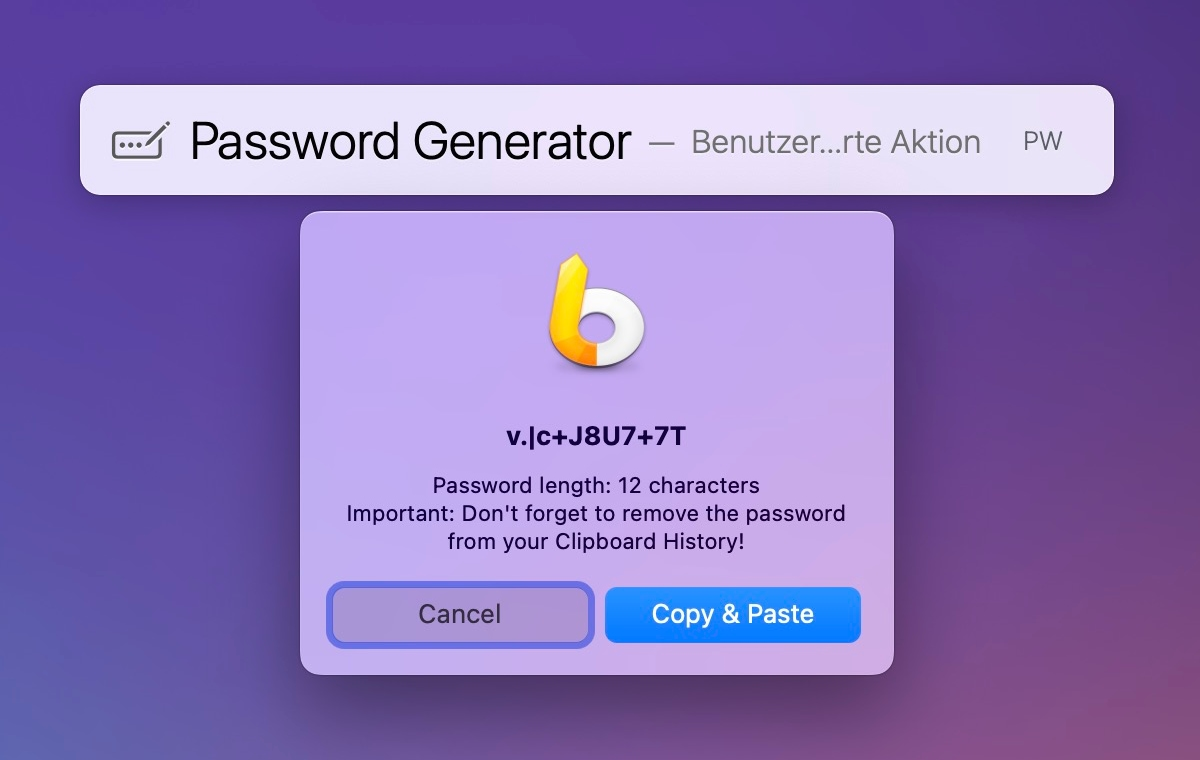
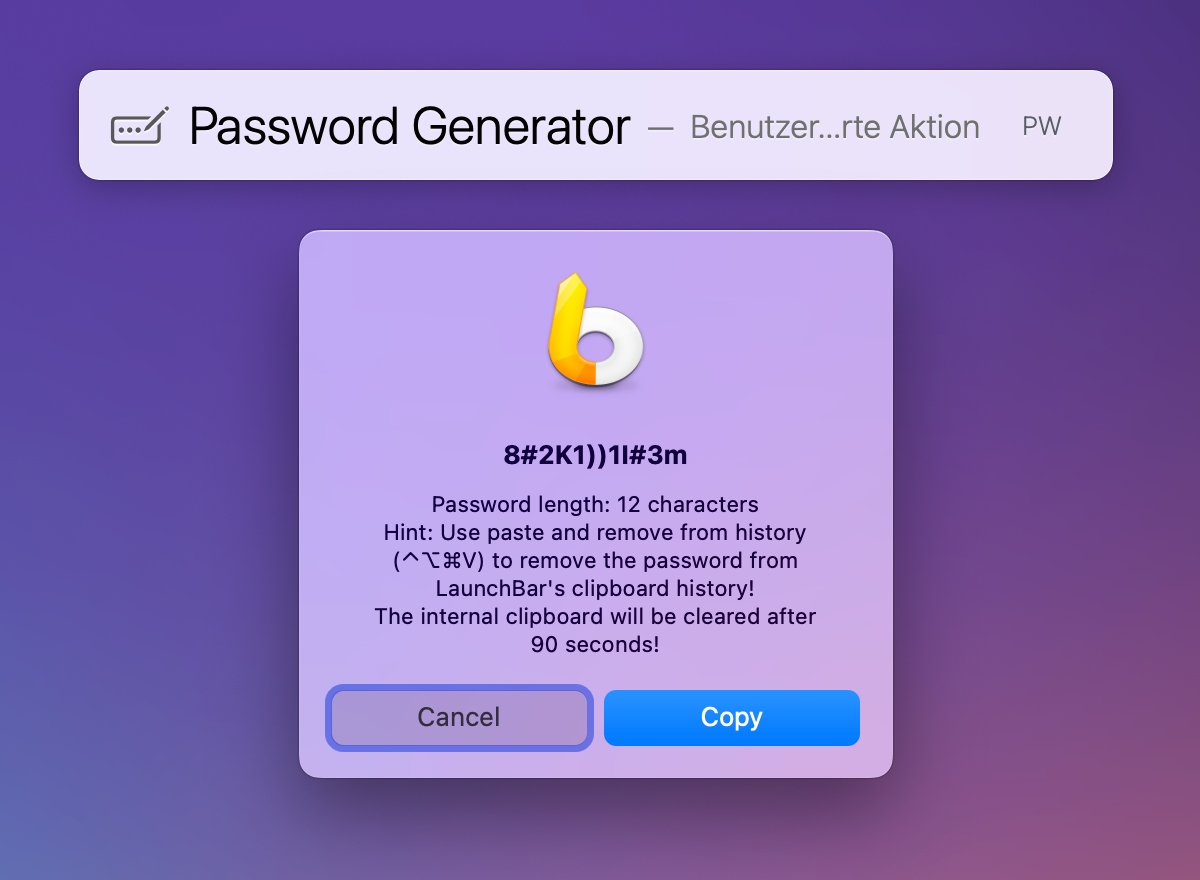
1.1
- Integrates Clear Clipboard Action
- Does not paste the password directly, instead informs about paste and remove from history shortcut

Changed region(s): [[0.0617, 0.0605, 0.9558, 0.8474], [0.2467, 0.8776, 0.74, 0.9079]]

diff --git a/Password-Generator/Password Generator.lbaction/Contents/Scripts/default.js b/Password-Generator/Password Generator.lbaction/Contents/Scripts/default.js
@@ -7,13 +7,18 @@ Copyright see: https://github.com/Ptujec/LaunchBar/blob/master/LICENSE
 
 Sources:
 - https://github.com/Qreepex/pwgen/blob/main/assets/js/index.js
+
+TODO: 
+- German Localization
 */
 
 const prefs = Action.preferences,
   lowerLetters = 'abcdefghijklmnopqrstuvwxyz',
   upperLetters = 'ABCDEFGHIJKLMNOPQRSTUVWXYZ',
   numbers = '0123456789',
-  symbols = '~!@#$%?.^&*()_+=|';
+  symbols = '~!@#$%?.^&*()_+=|',
+  clearClipboardAction =
+    '~/Library/Application Support/LaunchBar/Actions/Clear Clipboard.lbaction';
 
 // Main Action
 
@@ -28,21 +33,29 @@ function run(argument) {
 
     var pW = generatePassword(argument);
 
-    var response = LaunchBar.alert(
-      pW,
+    var info =
       'Password length: ' +
-        pW.length +
-        ' characters' +
-        "\nImportant: Don't forget to remove the password from your Clipboard History!",
-      'Copy & Paste',
-      'Cancel'
-    );
+      pW.length +
+      ' characters' +
+      "\nHint: Use paste and remove from history (⌃⌥⌘V) to remove the password from LaunchBar's clipboard history!";
+
+    if (File.exists(clearClipboardAction) && prefs.clearClipboard != false) {
+      info += '\nThe internal clipboard will be cleared after 90 seconds!';
+    }
+
+    var response = LaunchBar.alert(pW, info, 'Copy', 'Cancel');
     switch (response) {
       case 0:
-        // Ok … do something
         LaunchBar.setClipboardString(pW);
-        LaunchBar.paste(pW); //
-      // LaunchBar.clearClipboard();
+        LaunchBar.hide();
+
+        if (
+          File.exists(clearClipboardAction) &&
+          prefs.clearClipboard != false
+        ) {
+          LaunchBar.performAction('Clear Clipboard'); // runs clear clipboard action when installed … which clears the internal clipboard (not LaunchBar history after a delay of 30 seconds
+        }
+
       case 1:
         // LaunchBar.hide();
         break;
@@ -54,17 +67,22 @@ function run(argument) {
 
 function showOptions() {
   var numDict = {
-      title: 'Numbers',
+      title: 'Include Numbers',
       label: numbers,
       icon: 'circleTemplate',
       action: 'toggleNum',
     },
     symDict = {
-      title: 'Symbols',
+      title: 'Include Symbols',
       label: symbols,
       icon: 'circleTemplate',
       action: 'toggleSym',
     };
+  clearClipboard = {
+    title: 'Clear Internal Clipboard Option',
+    icon: 'circleTemplate',
+    action: 'toggleClearClipboard',
+  };
 
   if (prefs.numbers != false) {
     numDict.icon = 'checkedTemplate';
@@ -74,7 +92,11 @@ function showOptions() {
     symDict.icon = 'checkedTemplate';
   }
 
-  var options = [numDict, symDict];
+  if (prefs.clearClipboard != false && File.exists(clearClipboardAction)) {
+    clearClipboard.icon = 'checkedTemplate';
+  }
+
+  var options = [numDict, symDict, clearClipboard];
   return options;
 }
 
@@ -94,6 +116,36 @@ function toggleSym() {
   } else {
     prefs.symbols = true;
   }
+  var output = showOptions();
+  return output;
+}
+
+function toggleClearClipboard() {
+  if (!File.exists(clearClipboardAction) && prefs.clearClipboard != false) {
+    var response = LaunchBar.alert(
+      'Install Clear Clipboard Action',
+      'You need to install the complimantary action in order to use this function.',
+      'Ok',
+      'Cancel'
+    );
+    switch (response) {
+      case 0:
+        LaunchBar.openURL(
+          'https://github.com/Ptujec/LaunchBar/tree/master/Password-Generator#clear-clipboard-action'
+        );
+      case 1:
+        break;
+    }
+  }
+
+  if (File.exists(clearClipboardAction)) {
+    if (prefs.clearClipboard != false) {
+      prefs.clearClipboard = false;
+    } else {
+      prefs.clearClipboard = true;
+    }
+  }
+
   var output = showOptions();
   return output;
 }

diff --git a/Password-Generator/README.md b/Password-Generator/README.md
@@ -10,21 +10,23 @@ You can change the length with `␣` (space).
 
 <img src="02.jpg" width="596"/>
 
-With `⇧` (shift) you can change defaults for numbers and symbols, that is if they should be included or not.
+With `⇧↩` (shift-return) you can change defaults for numbers and symbols, that is if they should be included or not.
 
 <img src="03.jpg" width="600"/>
 
+
 ## Clear Clipboard Action
 
-I included a complimentary action that clears the internal clipboard (not LaunchBars clipboard history) after a delay of 30 seconds. The main action runs that automatically. It needed to be an extra action in order to run in the background. Otherwise you would not be able to use LaunchBar again until the delay time has passed.
+I included a complimentary action that clears the internal clipboard (not LaunchBars clipboard history) after a delay of 90 seconds. The main action runs that automatically, when installed. It needed to be an extra action in order to run in the background. Otherwise you would not be able to use LaunchBar again until the delay time has passed.
 
-## Caution
+## Clipboard History
 
-The action both pastes the password in the active text field and copies it to the clipboard. Since it is not an app it can not be excluded for LaunchBars clipboard history (yet). So you need to remove it manually for now. (The Clear Clipboard action does not do that.)
+You might want to use paste and remove from history `⌃⌥⌘V` to remove the password from LaunchBar's Clipboard History! 
+
 
 ## Download
 
-[Download LaunchBar Action: Password Generator](https://minhaskamal.github.io/DownGit/#/home?url=https://github.com/Ptujec/LaunchBar/tree/master/Password-Generator) (powered by [DownGit](https://github.com/MinhasKamal/DownGit))
+[Download LaunchBar Action: Password Generator (incl. Clear Clipboard Action)](https://minhaskamal.github.io/DownGit/#/home?url=https://github.com/Ptujec/LaunchBar/tree/master/Password-Generator) (powered by [DownGit](https://github.com/MinhasKamal/DownGit))
 
 ## Updates
 
